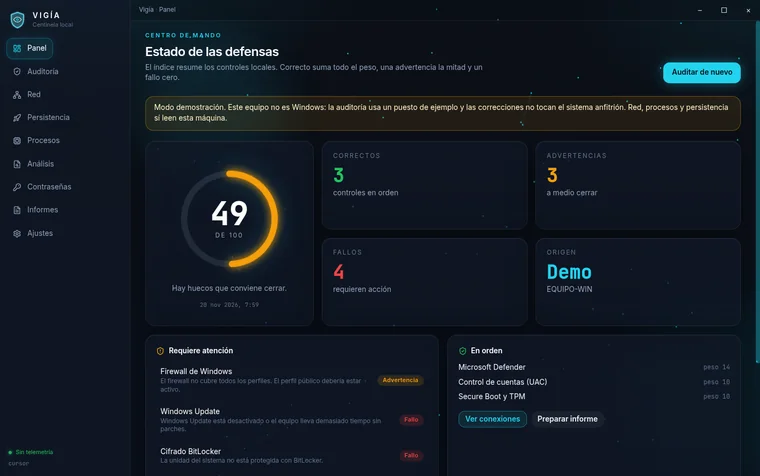
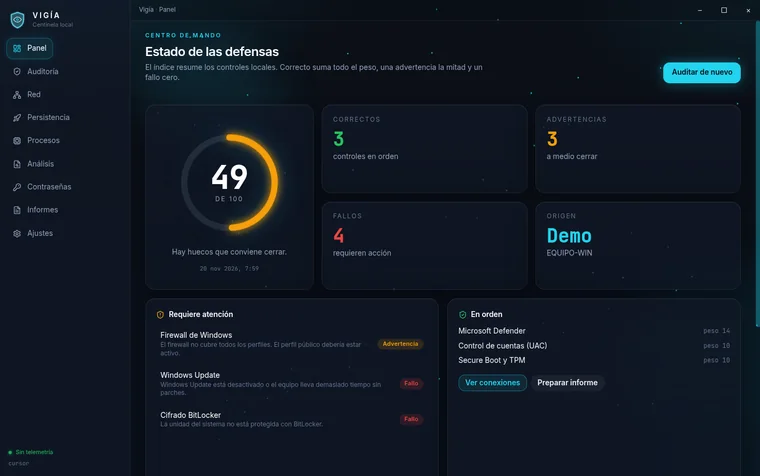
Quitar el aviso de modo demostración de las capturas del panel y de los pies de foto

diff --git a/index.html b/index.html
@@ -98,7 +98,7 @@
       <span class="win-sheen" aria-hidden="true"></span>
     </figure>
   </div>
-  <p class="cap mono">Captura real de la versión en desarrollo, en modo demostración.</p>
+  <p class="cap mono">Captura real de la versión en desarrollo.</p>
 </section>
 
 <!-- PANEL / PUNTUACIÓN -->
@@ -311,7 +311,7 @@
         </div>
         <span class="g-wipe" aria-hidden="true"></span><span class="win-sheen" aria-hidden="true"></span>
       </figure>
-      <p class="cap mono" id="ax-cap" aria-live="polite">Captura real de la versión en desarrollo, en modo demostración.</p>
+      <p class="cap mono" id="ax-cap" aria-live="polite">Captura real de la versión en desarrollo.</p>
     </div>
   </div>
 </section>
@@ -338,7 +338,7 @@
         <li><i data-lucide="server"></i>Puertos a la escucha (LISTEN) y quién los abre</li>
         <li><i data-lucide="scan-line"></i>Filtro por proceso, IP o PID y refresco cada 5 s</li>
       </ul>
-      <p class="note mono">Captura real tomada fuera de Windows, en modo demostración. En Windows los datos salen de Get-NetTCPConnection. El mapa animado usa direcciones de ejemplo (RFC 5737).</p>
+      <p class="note mono">Captura real de la versión en desarrollo. En Windows, los datos de red salen de Get-NetTCPConnection. El mapa animado usa direcciones de ejemplo (RFC 5737).</p>
     </div>
   </div>
 </section>

diff --git a/js/app.js b/js/app.js
@@ -309,7 +309,7 @@
     const lists = $$('.ax-nav, .ax-tabs');
     const allTabs = $$('[role="tab"][data-v]', document).filter(t => t.closest('.ax-nav, .ax-tabs'));
     const views = $$('.axv', ax);
-    const CAP_REAL = 'Captura real de la versión en desarrollo, en modo demostración.';
+    const CAP_REAL = 'Captura real de la versión en desarrollo.';
     const CAP_HTML = 'Vista recreada en HTML con el estilo de la app y datos de ejemplo: todavía no hay captura real de este apartado.';
     let cur = 'panel';
     const fit = () => { const w = shell.offsetWidth; if (w) ax.style.setProperty('--k', ax.clientWidth / w); };

diff --git a/README.md b/README.md
@@ -12,6 +12,6 @@ Publicada en GitHub Pages: https://rootesq-pixel.github.io/vigia-web/
 
 Edita `js/config.js`: revisa `url`, `file` y `size` de cada descarga y pon `available: true`.
 
-Las capturas de img/app son reales (versión en desarrollo, modo demostración). La animación del índice y el mapa de conexiones son ilustrativos.
+Las capturas de img/app son reales (versión en desarrollo). La animación del índice y el mapa de conexiones son ilustrativos.
 
 © 2026 Vigía. Todos los derechos reservados.
